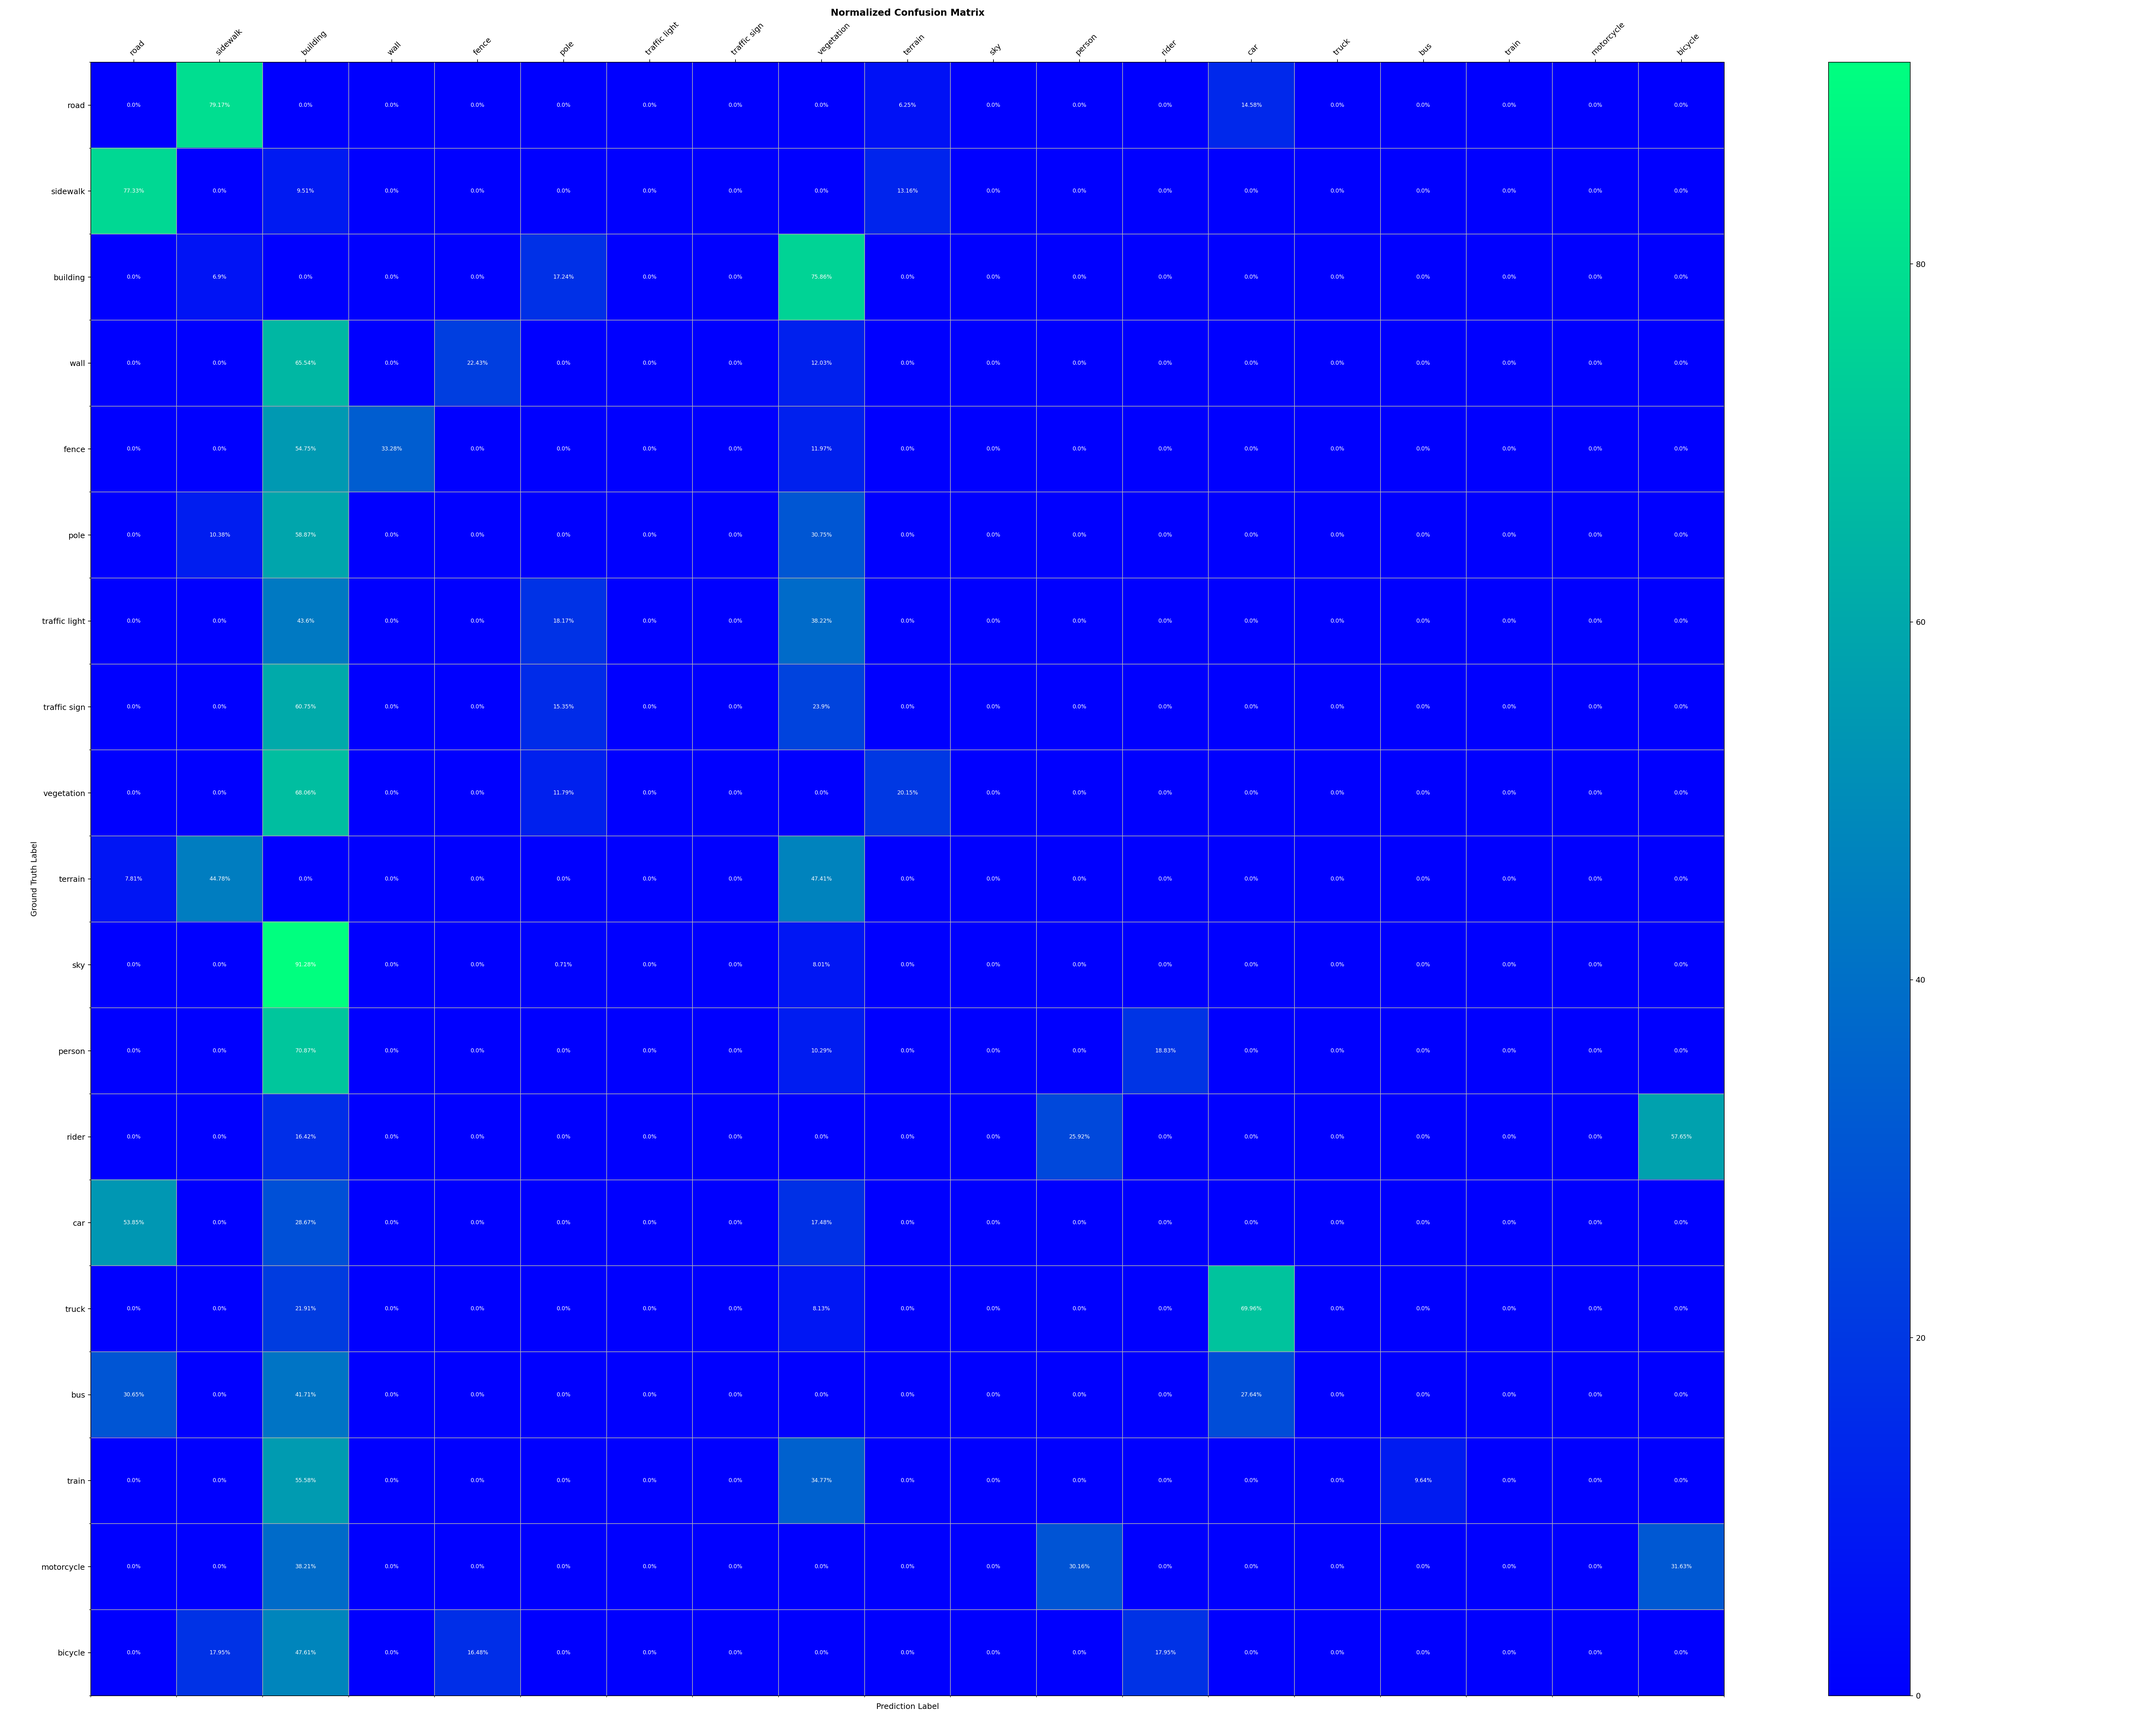
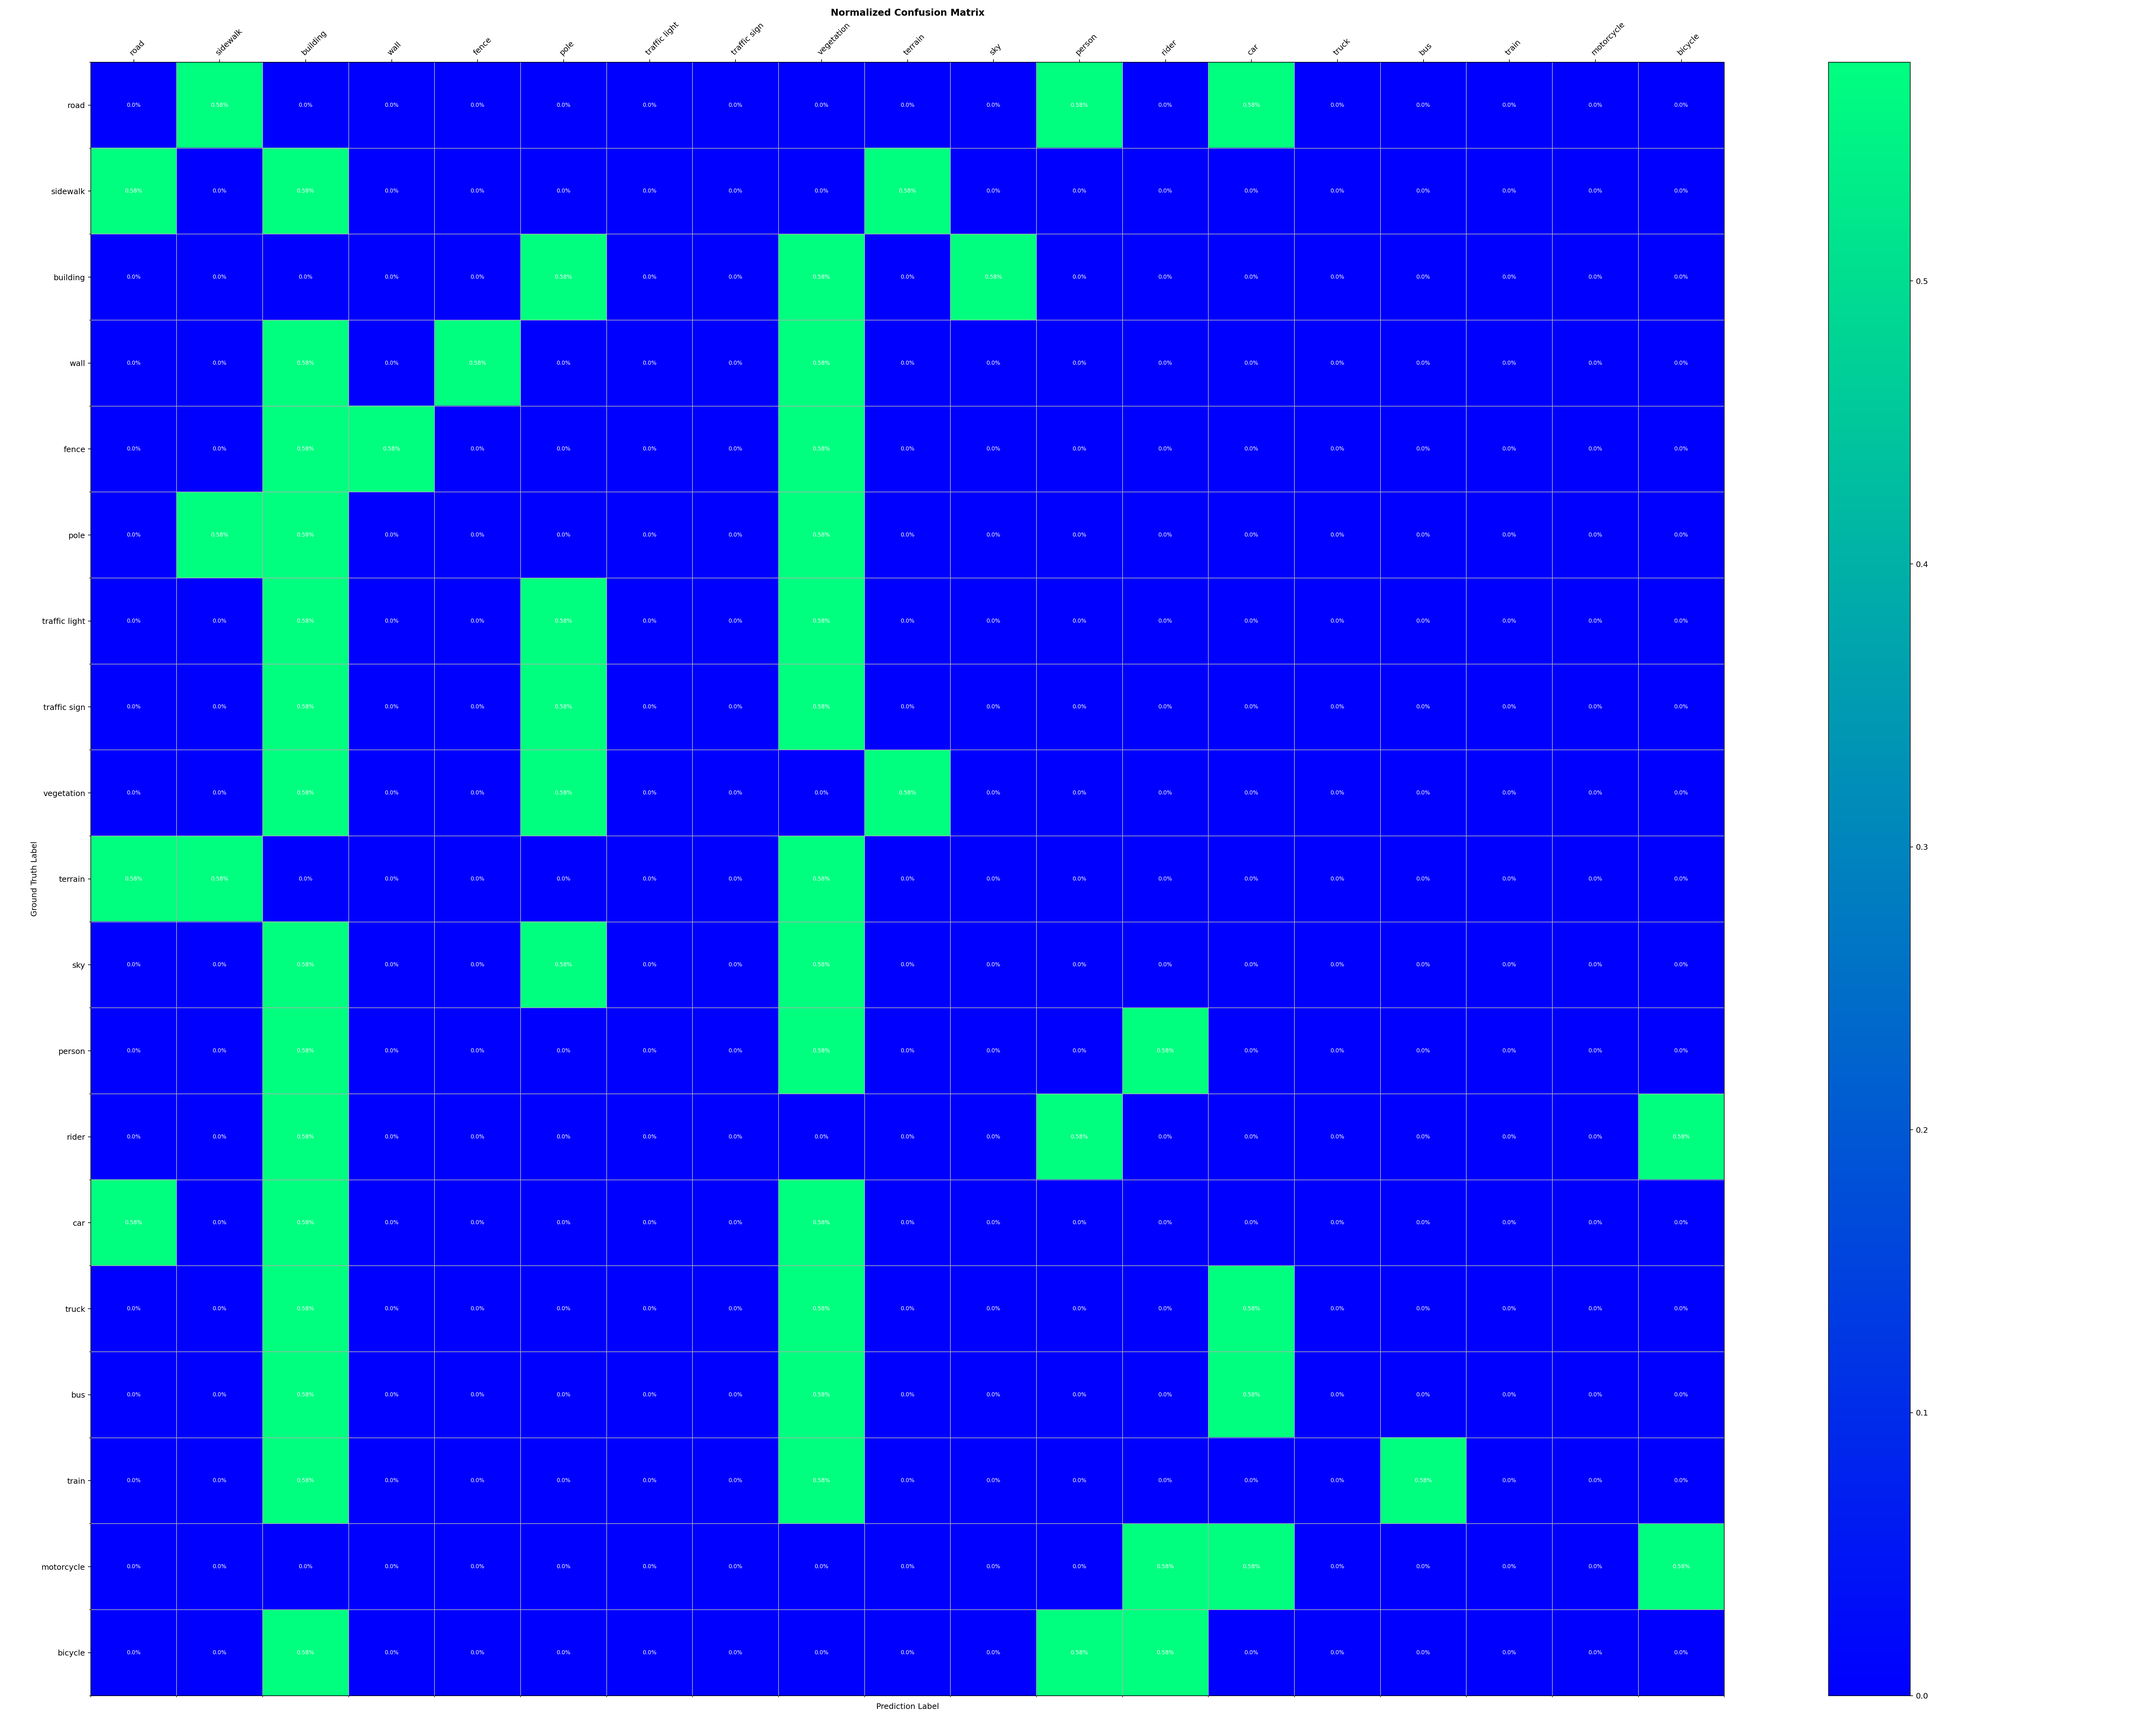
adjacency matrix adding

diff --git a/tools/confusion_matrix.py b/tools/confusion_matrix.py
@@ -69,6 +69,23 @@ def calculate_confusion_matrix(dataset, results):
     return confusion_matrix
 
 
+def calculate_adjacency_matrix(confusion_matrix, k=3):
+    ## calculate adjacency_matrix from confusion matrix 
+    np.fill_diagonal(confusion_matrix,0) ## removing the dependency of the class with itself  ## its is an inplace argument 
+    # indices = np.argpartition(confusion_matrix, -k, axis=1)[:, -k:]
+    # top_k_values = np.take_along_axis(confusion_matrix, indices, axis=1)
+    sorted_indices = np.argsort(confusion_matrix) 
+    indices_as_ranks = np.argsort(np.argsort(confusion_matrix)) 
+    indices_which_are_topk_as_bool = (indices_as_ranks >= confusion_matrix.shape[1] - k) # shape[1] used as we need to find it along row 
+    adjacency_matrix = confusion_matrix * indices_which_are_topk_as_bool
+    # print(adjacency_matrix)   
+    
+    ## for one hot adjacency matrix 
+    adjacency_matrix_as_one_hot = adjacency_matrix
+    adjacency_matrix_as_one_hot[adjacency_matrix_as_one_hot>0] = 1 
+    
+    return adjacency_matrix
+
 def plot_confusion_matrix(confusion_matrix,
                           labels,
                           save_dir=None,
@@ -152,27 +169,27 @@ def plot_confusion_matrix(confusion_matrix,
         plt.show()
 
 
-## derived from above confusion matrix of "oneformer" model on cityscapes val dataset ## 
-list_of_lists = [[0,        0.38,           0,           0,     0,     0,            0,              0,              0,       0.03,        0,      0,       0,   0.07,      0,       0,      0,        0,            0 ],
-        [3.82,        0,           0.47,           0,     0,     0,            0,              0,              0,         0.65,        0,      0,       0,      0,      0,       0,      0,        0,            0 ],
-        [0,        0.12,           0,           0,     0,     0.3,            0,              0,              1.32,         0,        0,      0,       0,      0,      0,       0,      0,        0,            0 ],
-        [0,        0,           10.84,           0,     3.71,     0,            0,              0,              1.99,         0,        0,      0,       0,      0,      0,       0,      0,        0,            0 ],
-        [0,        0,           9.97,           6.06,     0,     0,            0,              0,              2.18,         0,        0,      0,       0,      0,      0,       0,      0,        0,            0 ],
-        [0,        1.38,           7.83,           0,     0,     0,            0,              0,              4.09,         0,        0,      0,       0,      0,      0,       0,      0,        0,            0 ],
-        [0,        0,           5.35,           0,     0,     2.23,            0,              0,              4.69,         0,        0,      0,       0,      0,      0,       0,      0,        0,            0 ],
-        [0,        0,           4.83,           0,     0,     1.22,            0,              0,              1.9,         0,        0,      0,       0,      0,      0,       0,      0,        0,            0 ],
-        [0,        0,           1.79,           0,     0,     0.31,            0,              0,              0,         0.53,        0,      0,       0,      0,      0,       0,      0,        0,            0 ],
-        [1.6,       9.17,           0,           0,     0,     0,            0,              0,              9.71,         0,        0,      0,       0,      0,      0,       0,      0,        0,            0 ],
-        [0,        0,           11.51,           0,     0,     0.09,            0,              0,              1.01,         0,        0,      0,       0,      0,      0,       0,      0,        0,            0 ],
-        [0,        0,           3.65,           0,     0,     0,            0,              0,              0.53,         0,        0,      0,       0.97,      0,      0,       0,      0,        0,            0 ],
-        [0,        0,           1.47,           0,     0,     0,            0,              0,              0,         0,        0,      2.32,            0,      0,      0,       0,      0,        0,            5.16 ],
-        [0.77,        0,           0.41,           0,     0,     0,            0,              0,              0.25,         0,        0,      0,       0,      0,      0,       0,      0,        0,            0 ],
-        [0,        0,           1.24,           0,     0,     0,            0,              0,              0.46,         0,        0,      0,       0,      3.96,         0,          0,         0,           0,      0 ],
-        [0.61,        0,           0.83,           0,     0,     0,            0,              0,              0,         0,        0,      0,       0,       0.55,      0,           0,         0,            0,    0 ],
-        [0,        0,           2.19,           0,     0,     0,            0,              0,              1.37,         0,        0,      0,       0,      0,      0,       0.38,      0,        0,            0 ],
-        [0,        0,           2.61,           0,     0,     0,            0,              0,              0,         0,        0,      2.06,       0,      0,      0,       0,      0,        0,            2.16 ],
-        [0,        1.58,           4.19,           0,     1.45,     0,            0,              0,              0,         0,        0,      0,       1.58,      0,      0,       0,      0,        0,            0 ]]
-list_of_lists_arr = np.array(list_of_lists)        
+# ## derived from above confusion matrix of "oneformer" model on cityscapes val dataset ## 
+# list_of_lists = [[0,        0.38,           0,           0,     0,     0,            0,              0,              0,       0.03,        0,      0,       0,   0.07,      0,       0,      0,        0,            0 ],
+#         [3.82,        0,           0.47,           0,     0,     0,            0,              0,              0,         0.65,        0,      0,       0,      0,      0,       0,      0,        0,            0 ],
+#         [0,        0.12,           0,           0,     0,     0.3,            0,              0,              1.32,         0,        0,      0,       0,      0,      0,       0,      0,        0,            0 ],
+#         [0,        0,           10.84,           0,     3.71,     0,            0,              0,              1.99,         0,        0,      0,       0,      0,      0,       0,      0,        0,            0 ],
+#         [0,        0,           9.97,           6.06,     0,     0,            0,              0,              2.18,         0,        0,      0,       0,      0,      0,       0,      0,        0,            0 ],
+#         [0,        1.38,           7.83,           0,     0,     0,            0,              0,              4.09,         0,        0,      0,       0,      0,      0,       0,      0,        0,            0 ],
+#         [0,        0,           5.35,           0,     0,     2.23,            0,              0,              4.69,         0,        0,      0,       0,      0,      0,       0,      0,        0,            0 ],
+#         [0,        0,           4.83,           0,     0,     1.22,            0,              0,              1.9,         0,        0,      0,       0,      0,      0,       0,      0,        0,            0 ],
+#         [0,        0,           1.79,           0,     0,     0.31,            0,              0,              0,         0.53,        0,      0,       0,      0,      0,       0,      0,        0,            0 ],
+#         [1.6,       9.17,           0,           0,     0,     0,            0,              0,              9.71,         0,        0,      0,       0,      0,      0,       0,      0,        0,            0 ],
+#         [0,        0,           11.51,           0,     0,     0.09,            0,              0,              1.01,         0,        0,      0,       0,      0,      0,       0,      0,        0,            0 ],
+#         [0,        0,           3.65,           0,     0,     0,            0,              0,              0.53,         0,        0,      0,       0.97,      0,      0,       0,      0,        0,            0 ],
+#         [0,        0,           1.47,           0,     0,     0,            0,              0,              0,         0,        0,      2.32,            0,      0,      0,       0,      0,        0,            5.16 ],
+#         [0.77,        0,           0.41,           0,     0,     0,            0,              0,              0.25,         0,        0,      0,       0,      0,      0,       0,      0,        0,            0 ],
+#         [0,        0,           1.24,           0,     0,     0,            0,              0,              0.46,         0,        0,      0,       0,      3.96,         0,          0,         0,           0,      0 ],
+#         [0.61,        0,           0.83,           0,     0,     0,            0,              0,              0,         0,        0,      0,       0,       0.55,      0,           0,         0,            0,    0 ],
+#         [0,        0,           2.19,           0,     0,     0,            0,              0,              1.37,         0,        0,      0,       0,      0,      0,       0.38,      0,        0,            0 ],
+#         [0,        0,           2.61,           0,     0,     0,            0,              0,              0,         0,        0,      2.06,       0,      0,      0,       0,      0,        0,            2.16 ],
+#         [0,        1.58,           4.19,           0,     1.45,     0,            0,              0,              0,         0,        0,      0,       1.58,      0,      0,       0,      0,        0,            0 ]]
+# list_of_lists_arr = np.array(list_of_lists)        
         
 def plot_adjacency_matrix(adjacency_matrix,
                           labels,
@@ -180,22 +197,23 @@ def plot_adjacency_matrix(adjacency_matrix,
                           show=True,
                           title='Normalized Adjacency Matrix',
                           color_theme='winter'):
-    """Draw confusion matrix with matplotlib.
+    """Draw adjacency matrix with matplotlib.
 
     Args:
-        adjacency_matrix (ndarray): The confusion matrix.
+        adjacency_matrix (ndarray): The adjacency matrix.
         labels (list[str]): List of class names.
-        save_dir (str|optional): If set, save the confusion matrix plot to the
+        save_dir (str|optional): If set, save the adjacency matrix plot to the
             given path. Default: None.
         show (bool): Whether to show the plot. Default: True.
-        title (str): Title of the plot. Default: `Normalized Confusion Matrix`.
+        title (str): Title of the plot. Default: `Normalized adjacency Matrix`.
         color_theme (str): Theme of the matrix color map. Default: `winter`.
     """
-    # normalize the confusion matrix
-    per_label_sums = adjacency_matrix.sum(axis=1)[:, np.newaxis]
-    adjacency_matrix = \
-        adjacency_matrix.astype(np.float32) / per_label_sums * 100
-
+    # # normalize the adjacency matrix
+    # per_label_sums = adjacency_matrix.sum(axis=1)[:, np.newaxis]
+    # adjacency_matrix = \
+    #     adjacency_matrix.astype(np.float32) / per_label_sums * 100
+    adjacency_matrix = adjacency_matrix/np.linalg.norm(adjacency_matrix, ord=2, axis=1, keepdims=True)  
+    
     num_classes = len(labels)
     fig, ax = plt.subplots(
         figsize=(2 * num_classes, 2 * num_classes * 0.8), dpi=180)
@@ -280,10 +298,14 @@ def main():
 
     dataset = build_dataset(cfg.data.test)
     
-    if args.adjacency:    
+    if args.adjacency: 
+        ## calculate confusion matrix 
+        confusion_matrix = calculate_confusion_matrix(dataset, results)   
+        adjacency_matrix = calculate_adjacency_matrix(confusion_matrix, k=3) # 3 nearest neighbour adjacency matrix 
+        
         ## adjacency matrix 
         plot_adjacency_matrix(
-            list_of_lists_arr,
+            adjacency_matrix,
             dataset.CLASSES,
             save_dir=args.save_dir,
             show=args.show,
